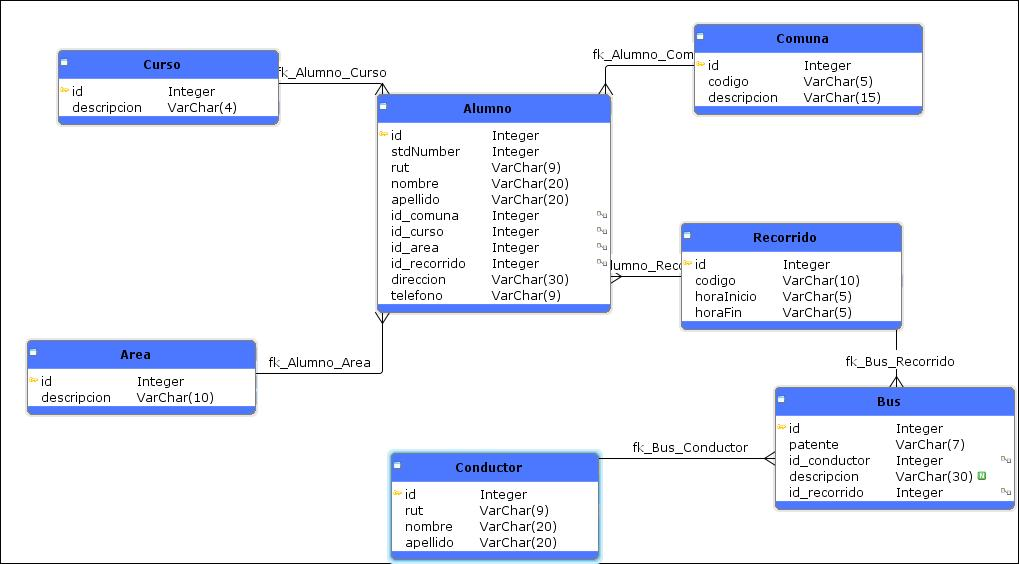
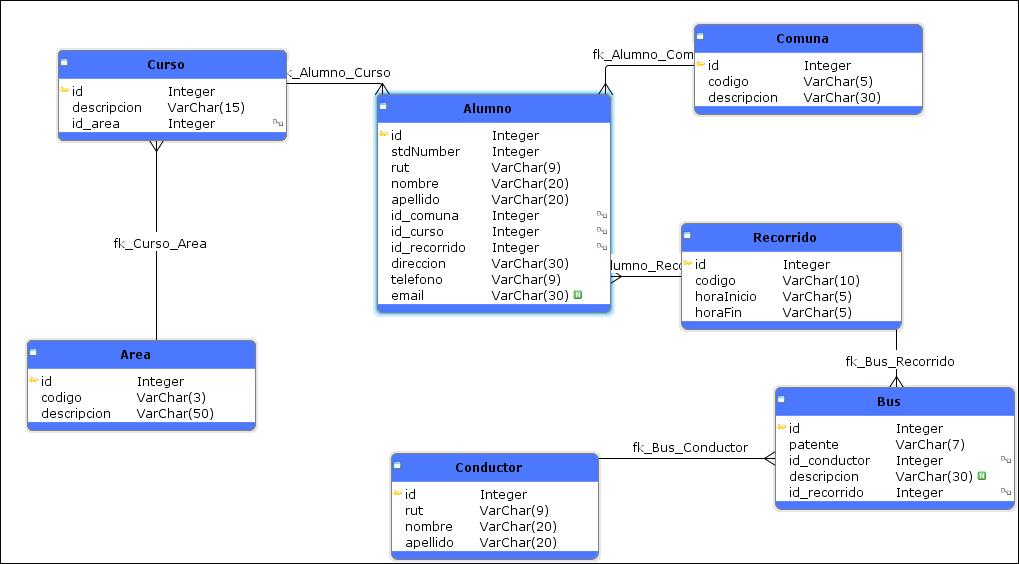
Commit para daniel 2

diff --git a/RMGSOFT/src/main/java/cl/rmgsoft/api/dao/impl/AlumnoDaoImpl.java b/RMGSOFT/src/main/java/cl/rmgsoft/api/dao/impl/AlumnoDaoImpl.java
@@ -16,33 +16,14 @@ public class AlumnoDaoImpl implements AlumnoDAO{
 	private JdbcTemplate jdbcTemplate;
 	@Override
 	public List<Alumno> getListaAlumnos() {
-		// TODO Auto-generated method stub
-//		Alumno alumno1 = new Alumno();
-//		List<Alumno> listaAlumnos = new ArrayList<Alumno>();
-//		alumno1.setId(1);
-//		alumno1.setStdNumber("636377");
-//		alumno1.setRut("15958325-2");
-//		alumno1.setNombre("Alexander");
-//		alumno1.setApellido("Beck");
-//		alumno1.setComuna("Lo Barnechea");
-//		alumno1.setDireccion("Cam. del Maillin 2846 casa B");
-//		alumno1.setTelefono("9999999");
-//		alumno1.setCurso("2° A");
-//		alumno1.setArea("ECC");
-//		alumno1.setRecorrido("IDRUNICO1");
-//		alumno1.setTipoTransporte("BUSXXX");
-//		
-//		listaAlumnos.add(alumno1);
-//		
-//		
-//		return listaAlumnos;
+
 		String sql = "select alumno.id, alumno.\"stdNumber\", alumno.rut, alumno.nombre, alumno.apellido, alumno.direccion,\r\n" + 
 				"comuna.descripcion as comuna,  alumno.telefono, curso.descripcion as curso,\r\n" + 
-				"area.descripcion as area, recorrido.codigo as recorrido\r\n" + 
+				"area.codigo as area, recorrido.codigo as recorrido\r\n" + 
 				"from dbo.\"Alumno\" AS alumno, dbo.\"Comuna\" AS comuna, dbo.\"Curso\" as curso, \r\n" + 
 				"dbo.\"Area\" as area, dbo.\"Recorrido\" as recorrido\r\n" + 
 				"where alumno.id_comuna = comuna.id and alumno.id_curso = curso.id\r\n" + 
-				"and alumno.id_area = area.id and alumno.id_recorrido = recorrido.id;";
+				"and curso.id_area = area.id and alumno.id_recorrido = recorrido.id;";
 		return jdbcTemplate.query(sql, new AlumnoMapper());
 	}
 
